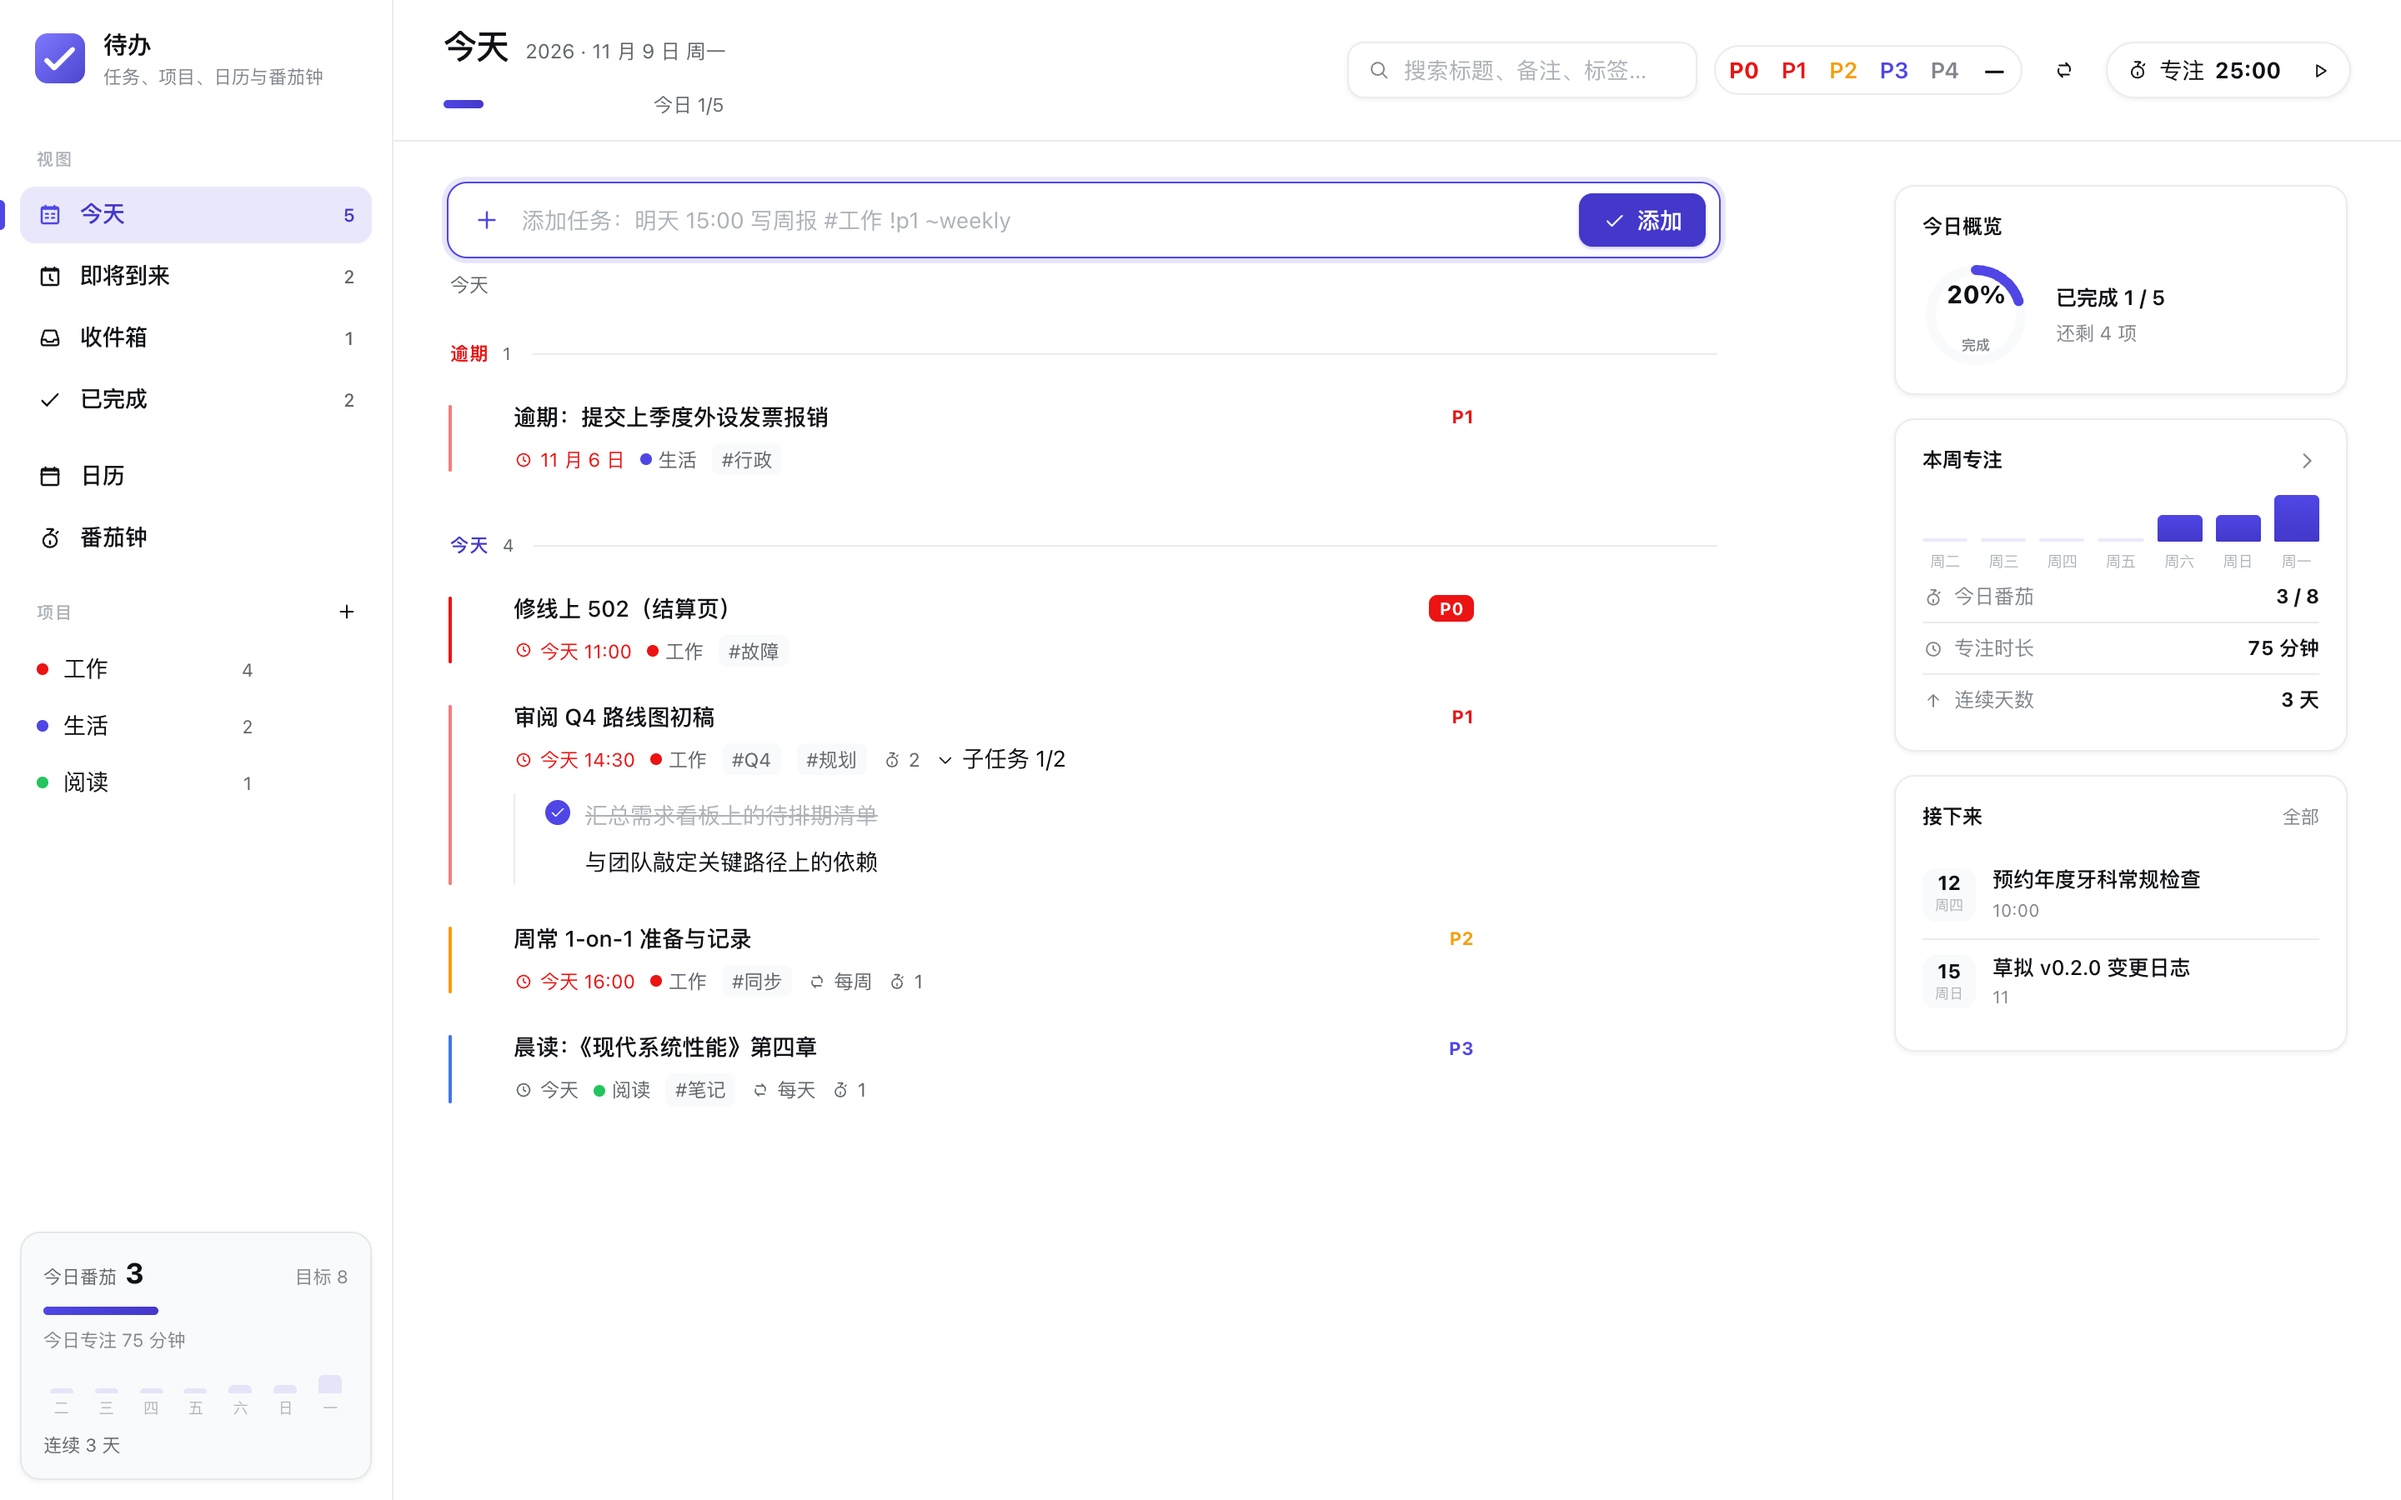
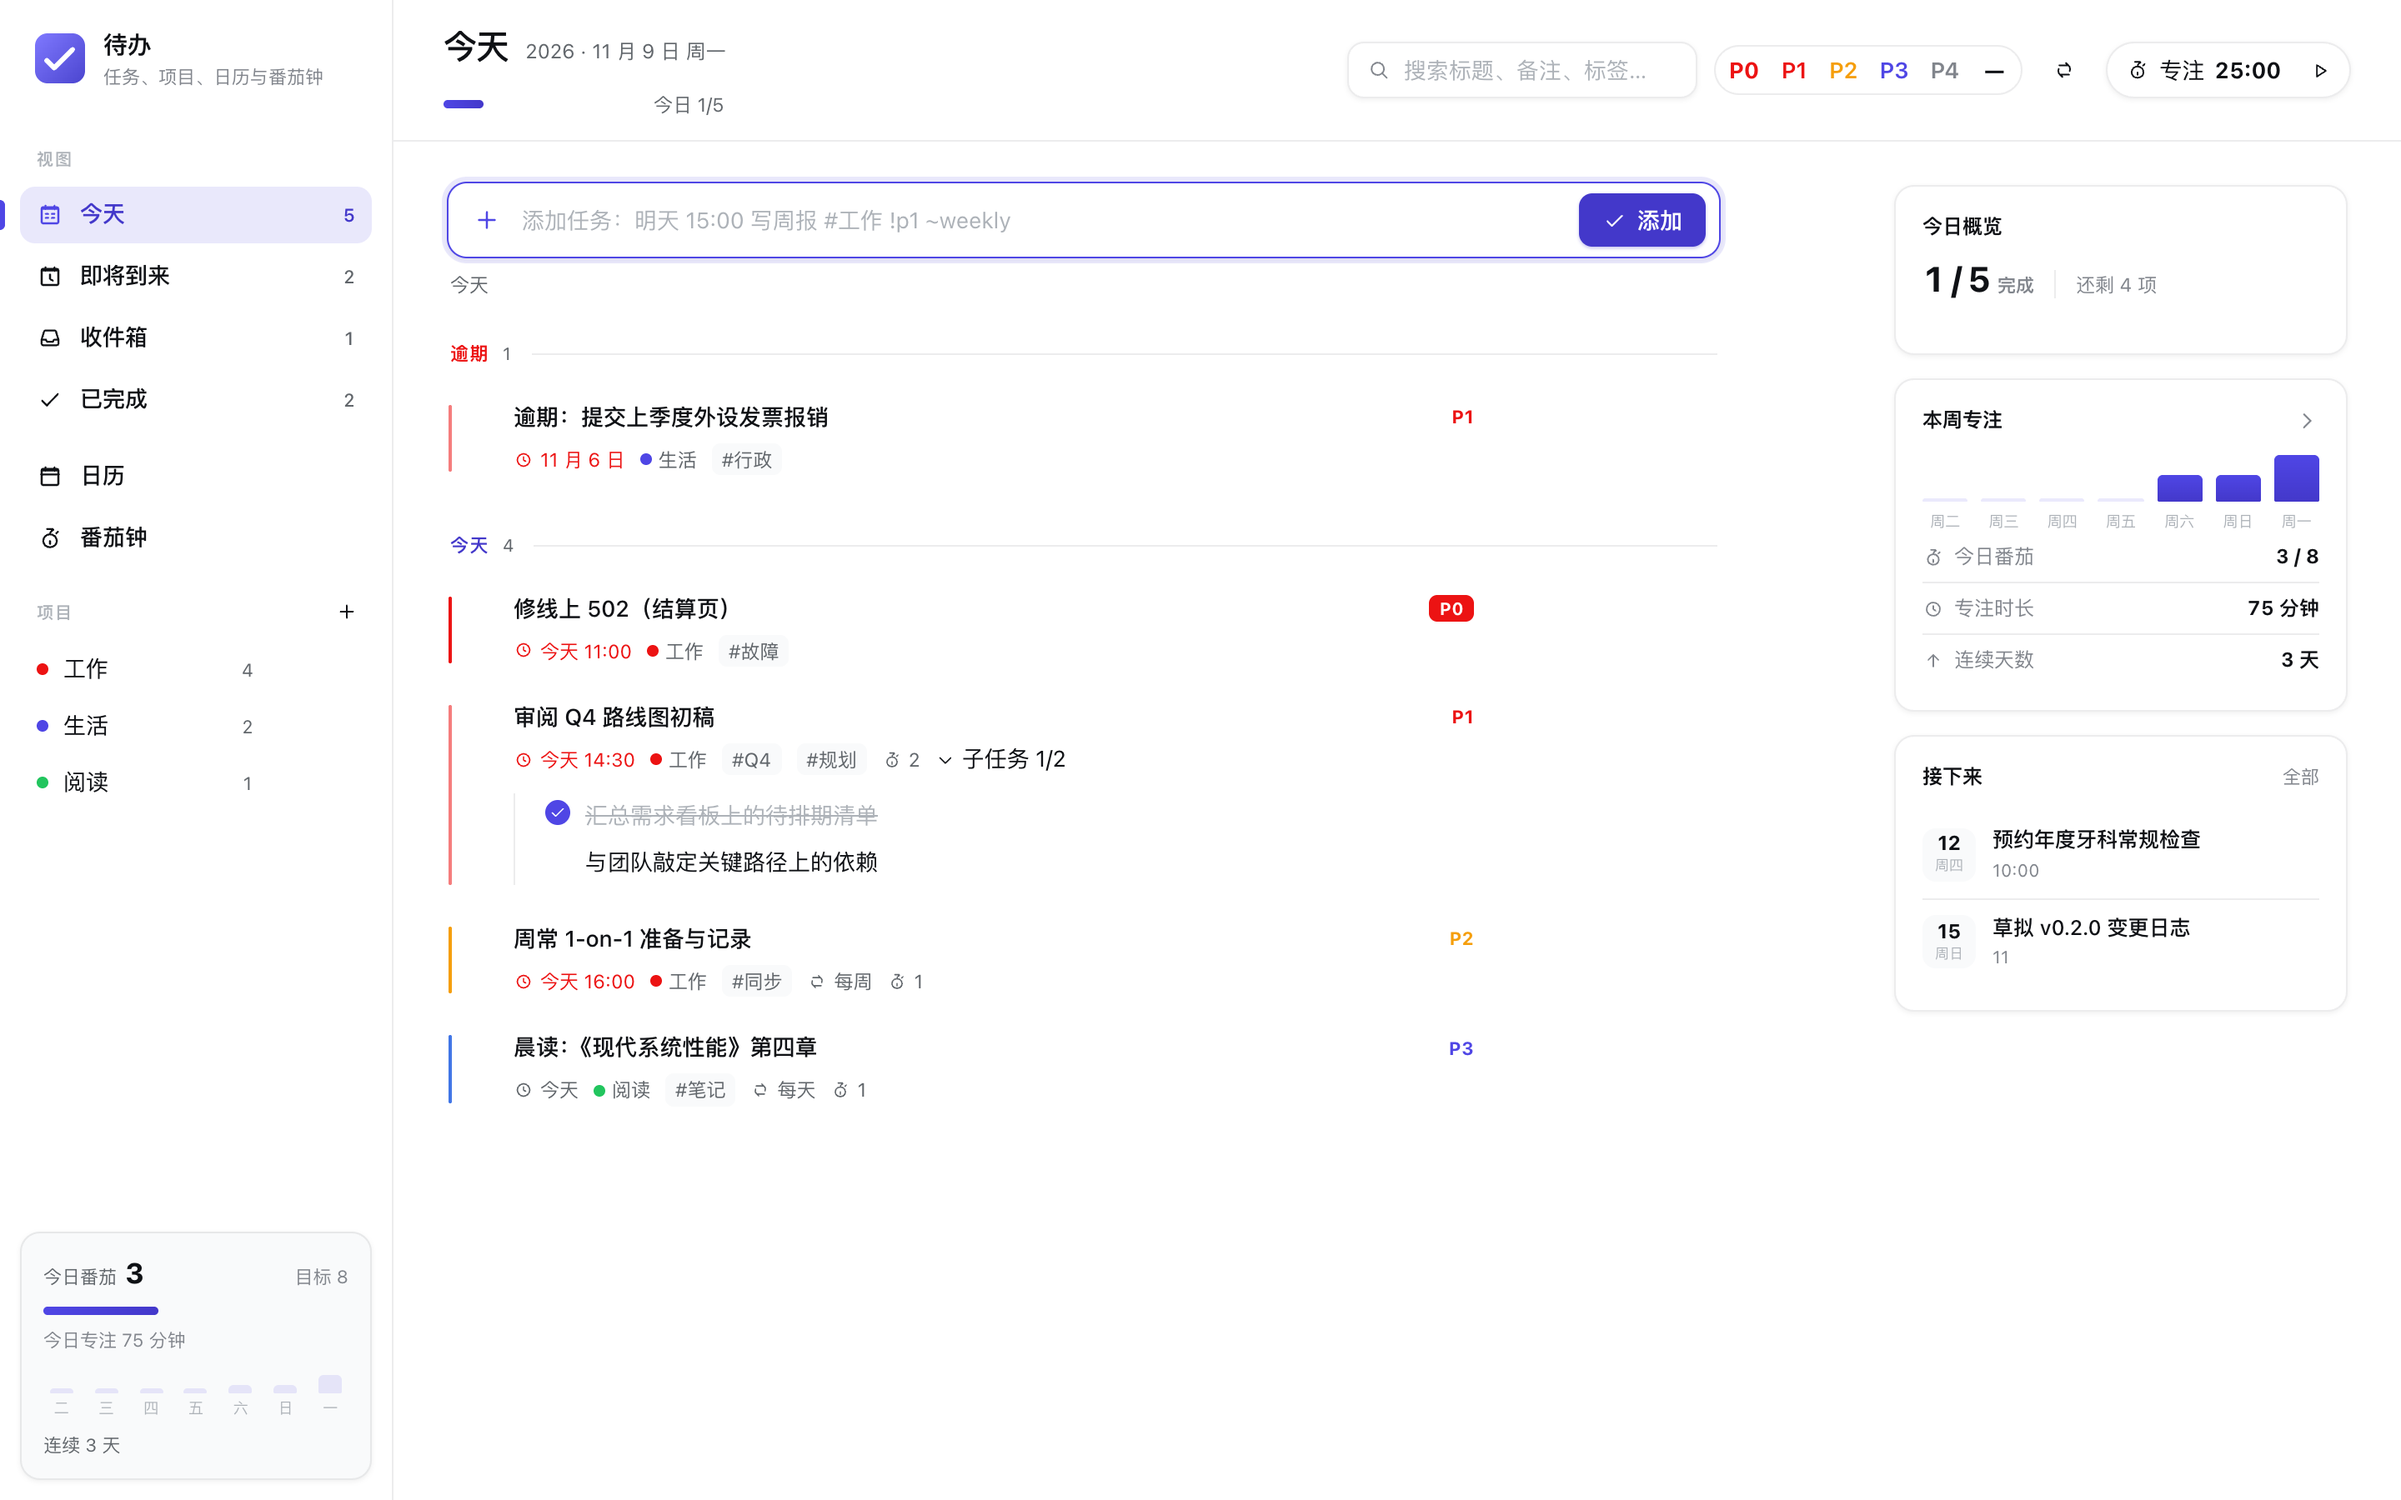
fix: refine task detail and progress hierarchy

diff --git a/lib/client.js b/lib/client.js
@@ -4399,10 +4399,6 @@ window.__ModuleLoader__.load({
 
     function TodoRail(props) {
       const { stats, done, total, tasks, today, ui } = props;
-      const pct = total ? Math.round((done / total) * 100) : 0;
-      const R = 27;
-      const C = 2 * Math.PI * R;
-      const dash = `${(pct / 100) * C} ${C}`;
       const goal = stats.goal || 8;
       const weekMax = Math.max(1, ...stats.days.map((day) => day.count));
       const weekdayShort = (date) => t(`weekday.short.${weekdayOf(date)}`);
@@ -4423,22 +4419,13 @@ window.__ModuleLoader__.load({
             { className: "todo-rail-overview" },
             h(
               "div",
-              { className: "todo-rail-ring" },
-              h(
-                "svg",
-                { width: 64, height: 64, viewBox: "0 0 64 64", "aria-hidden": "true" },
-                h("circle", { cx: 32, cy: 32, r: R, fill: "none", stroke: "var(--dsw-alias-bg-layer-2)", strokeWidth: 6 }),
-                h("circle", {
-                  cx: 32, cy: 32, r: R, fill: "none", stroke: "var(--todo-accent)", strokeWidth: 6,
-                  strokeLinecap: "round", strokeDasharray: dash, transform: "rotate(-90 32 32)",
-                }),
-              ),
-              h("div", { className: "todo-rail-ring-pct" }, `${pct}%`, h("small", null, t("rail.done"))),
+              { className: "todo-rail-completion", "aria-label": t("rail.progress", { done, total }) },
+              h("strong", null, `${done} / ${total}`),
+              h("span", null, t("rail.done")),
             ),
             h(
               "div",
               { className: "info" },
-              h("b", null, t("rail.progress", { done, total })),
               h("span", null, t("rail.remaining", { n: Math.max(0, total - done) })),
             ),
           ),
@@ -5317,8 +5304,9 @@ window.__ModuleLoader__.load({
 .todo-save-state.is-dirty { color: var(--dsw-alias-label-secondary); }
 .todo-save-state.is-error { color: var(--todo-danger); }
 .todo-drawer-actions { display: inline-flex; align-items: center; gap: 6px; }
-.todo-drawer-save { background: var(--todo-accent); border-color: var(--todo-accent); color: var(--dsw-alias-label-primary-inverted); }
-.todo-drawer-save:disabled { cursor: default; opacity: 0.52; }
+.todo-drawer-save { background: var(--todo-accent-tint); border-color: color-mix(in oklab, var(--todo-accent) 42%, var(--dsw-alias-border-l1)); color: var(--todo-accent-ink); font-weight: 650; }
+.todo-drawer-save:hover:not(:disabled) { background: color-mix(in oklab, var(--todo-accent) 18%, var(--dsw-alias-bg-layer-1)); border-color: var(--todo-accent); }
+.todo-drawer-save:disabled { cursor: default; opacity: 0.58; color: var(--dsw-alias-label-tertiary); background: var(--dsw-alias-bg-layer-2); border-color: var(--dsw-alias-border-l1); }
 .todo-drawer-save:not(:disabled):active { transform: scale(0.97); transition: transform 160ms var(--ease-out, ease-out); }
 .todo-drawer-body { flex: 1; min-height: 0; overflow-y: auto; padding: 14px; display: flex; flex-direction: column; gap: 13px; scrollbar-width: thin; }
 .todo-field { display: flex; flex-direction: column; gap: 5px; }
@@ -5693,15 +5681,12 @@ body[data-ds-dark-theme] .todo-row-timer.is-running { color: #0c0a1e; }
 .todo-rail-head { display: flex; align-items: center; justify-content: space-between; margin-bottom: 12px; }
 .todo-rail-head h4 { margin: 0; font-size: 12px; font-weight: 650; color: var(--dsw-alias-label-primary); }
 .todo-rail-head .more { color: var(--dsw-alias-label-tertiary); display: grid; place-items: center; cursor: pointer; }
-.todo-rail-overview { display: flex; align-items: center; gap: 16px; }
-.todo-rail-ring { width: 64px; height: 64px; position: relative; flex: none; }
-.todo-rail-ring-pct {
-  position: absolute; inset: 0; display: grid; place-items: center;
-  font-size: 15px; font-weight: 750; font-variant-numeric: tabular-nums;
-}
-.todo-rail-ring-pct small { font-size: 8.5px; font-weight: 600; color: var(--dsw-alias-label-tertiary); display: block; text-align: center; margin-top: -1px; }
-.todo-rail-overview .info b { display: block; font-size: 12.5px; font-weight: 600; }
-.todo-rail-overview .info span { display: block; font-size: 11.5px; color: var(--dsw-alias-label-tertiary); margin-top: 3px; }
+.todo-rail-overview { display: flex; align-items: baseline; gap: 12px; min-height: 40px; }
+.todo-rail-completion { display: inline-flex; align-items: baseline; gap: 5px; flex: none; color: var(--dsw-alias-label-primary); font-variant-numeric: tabular-nums; }
+.todo-rail-completion strong { font-size: 21px; line-height: 1; font-weight: 700; letter-spacing: -0.025em; }
+.todo-rail-completion span { font-size: 11px; font-weight: 600; color: var(--dsw-alias-label-tertiary); }
+.todo-rail-overview .info { padding-left: 12px; border-left: 1px solid var(--dsw-alias-border-l1); }
+.todo-rail-overview .info span { display: block; font-size: 11.5px; color: var(--dsw-alias-label-tertiary); }
 .todo-rail-kv { display: flex; align-items: center; justify-content: space-between; padding: 6px 0; font-size: 12px; }
 .todo-rail-kv:not(:last-child) { border-bottom: 1px solid var(--dsw-alias-border-l1); }
 .todo-rail-kv .k { display: flex; align-items: center; gap: 6px; color: var(--dsw-alias-label-tertiary); }

diff --git a/README.md b/README.md
@@ -60,7 +60,7 @@ An unstarted focus stays quiet; a short or long break shows as soon as it become
 - **Priorities & Labels**: P0 (Critical, filled red), P1 (Urgent, red), P2 (High, orange), P3 (Medium, blue), P4 (Low, gray); quick add accepts `!p0`–`!p4`, plus arbitrary `#project` and `@tag` labels.
 - **Calendar Grid**: Interactive monthly grid displaying task count dots; clicking any date filters tasks for that specific day.
 - **Search & Filter**: Real-time keyword search across titles and notes, combined with multi-select priority filters.
-- **Confident completion & editing**: The task drawer keeps autosave and adds an explicit Save button (`⌘/Ctrl+Enter`). Completing a task gets a focused confirmation with its title, a six-second Undo action, and the next date for recurring tasks.
+- **Confident completion & editing**: The task drawer keeps autosave and adds an explicit Save button (`⌘/Ctrl+Enter`). Completing a task gets a focused confirmation with its title, a six-second Undo action, and the next date for recurring tasks; Today summarizes progress with a direct completed/total count.
 
 ### Pomodoro Timer
 - **Work Cycles**: 25-minute focus, 5-minute short break, 15-minute long break every 4 focus sessions. Pick the focus length right on the timer (25 / 45 / 60 or custom) or fine-tune every duration in settings; changes apply immediately when idle and never cut a running session short.
